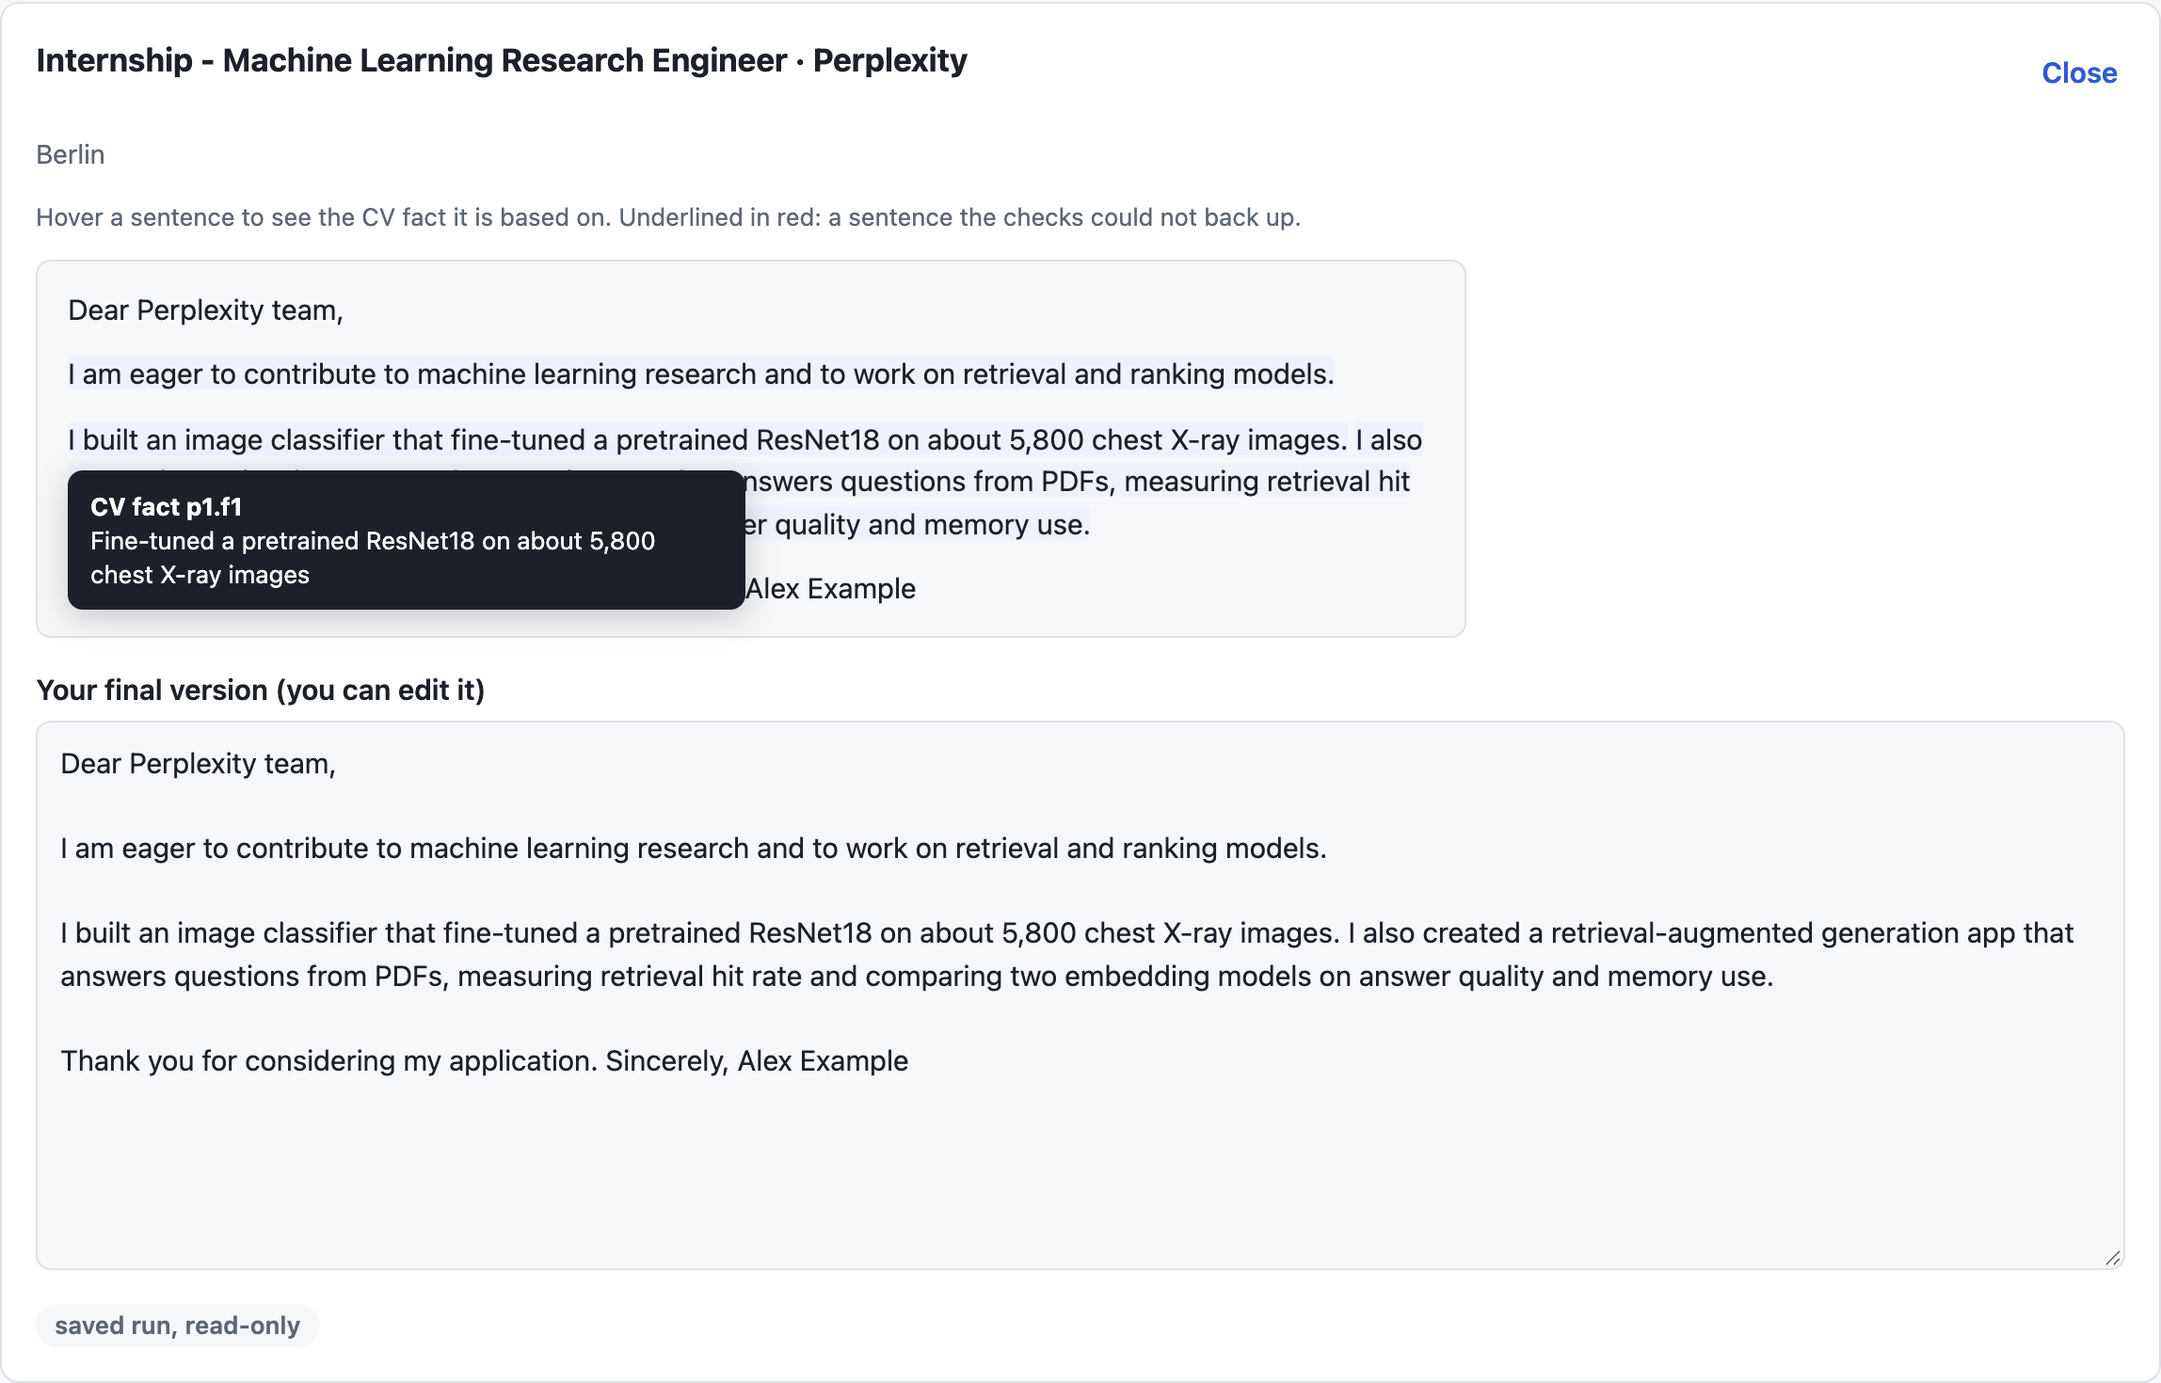
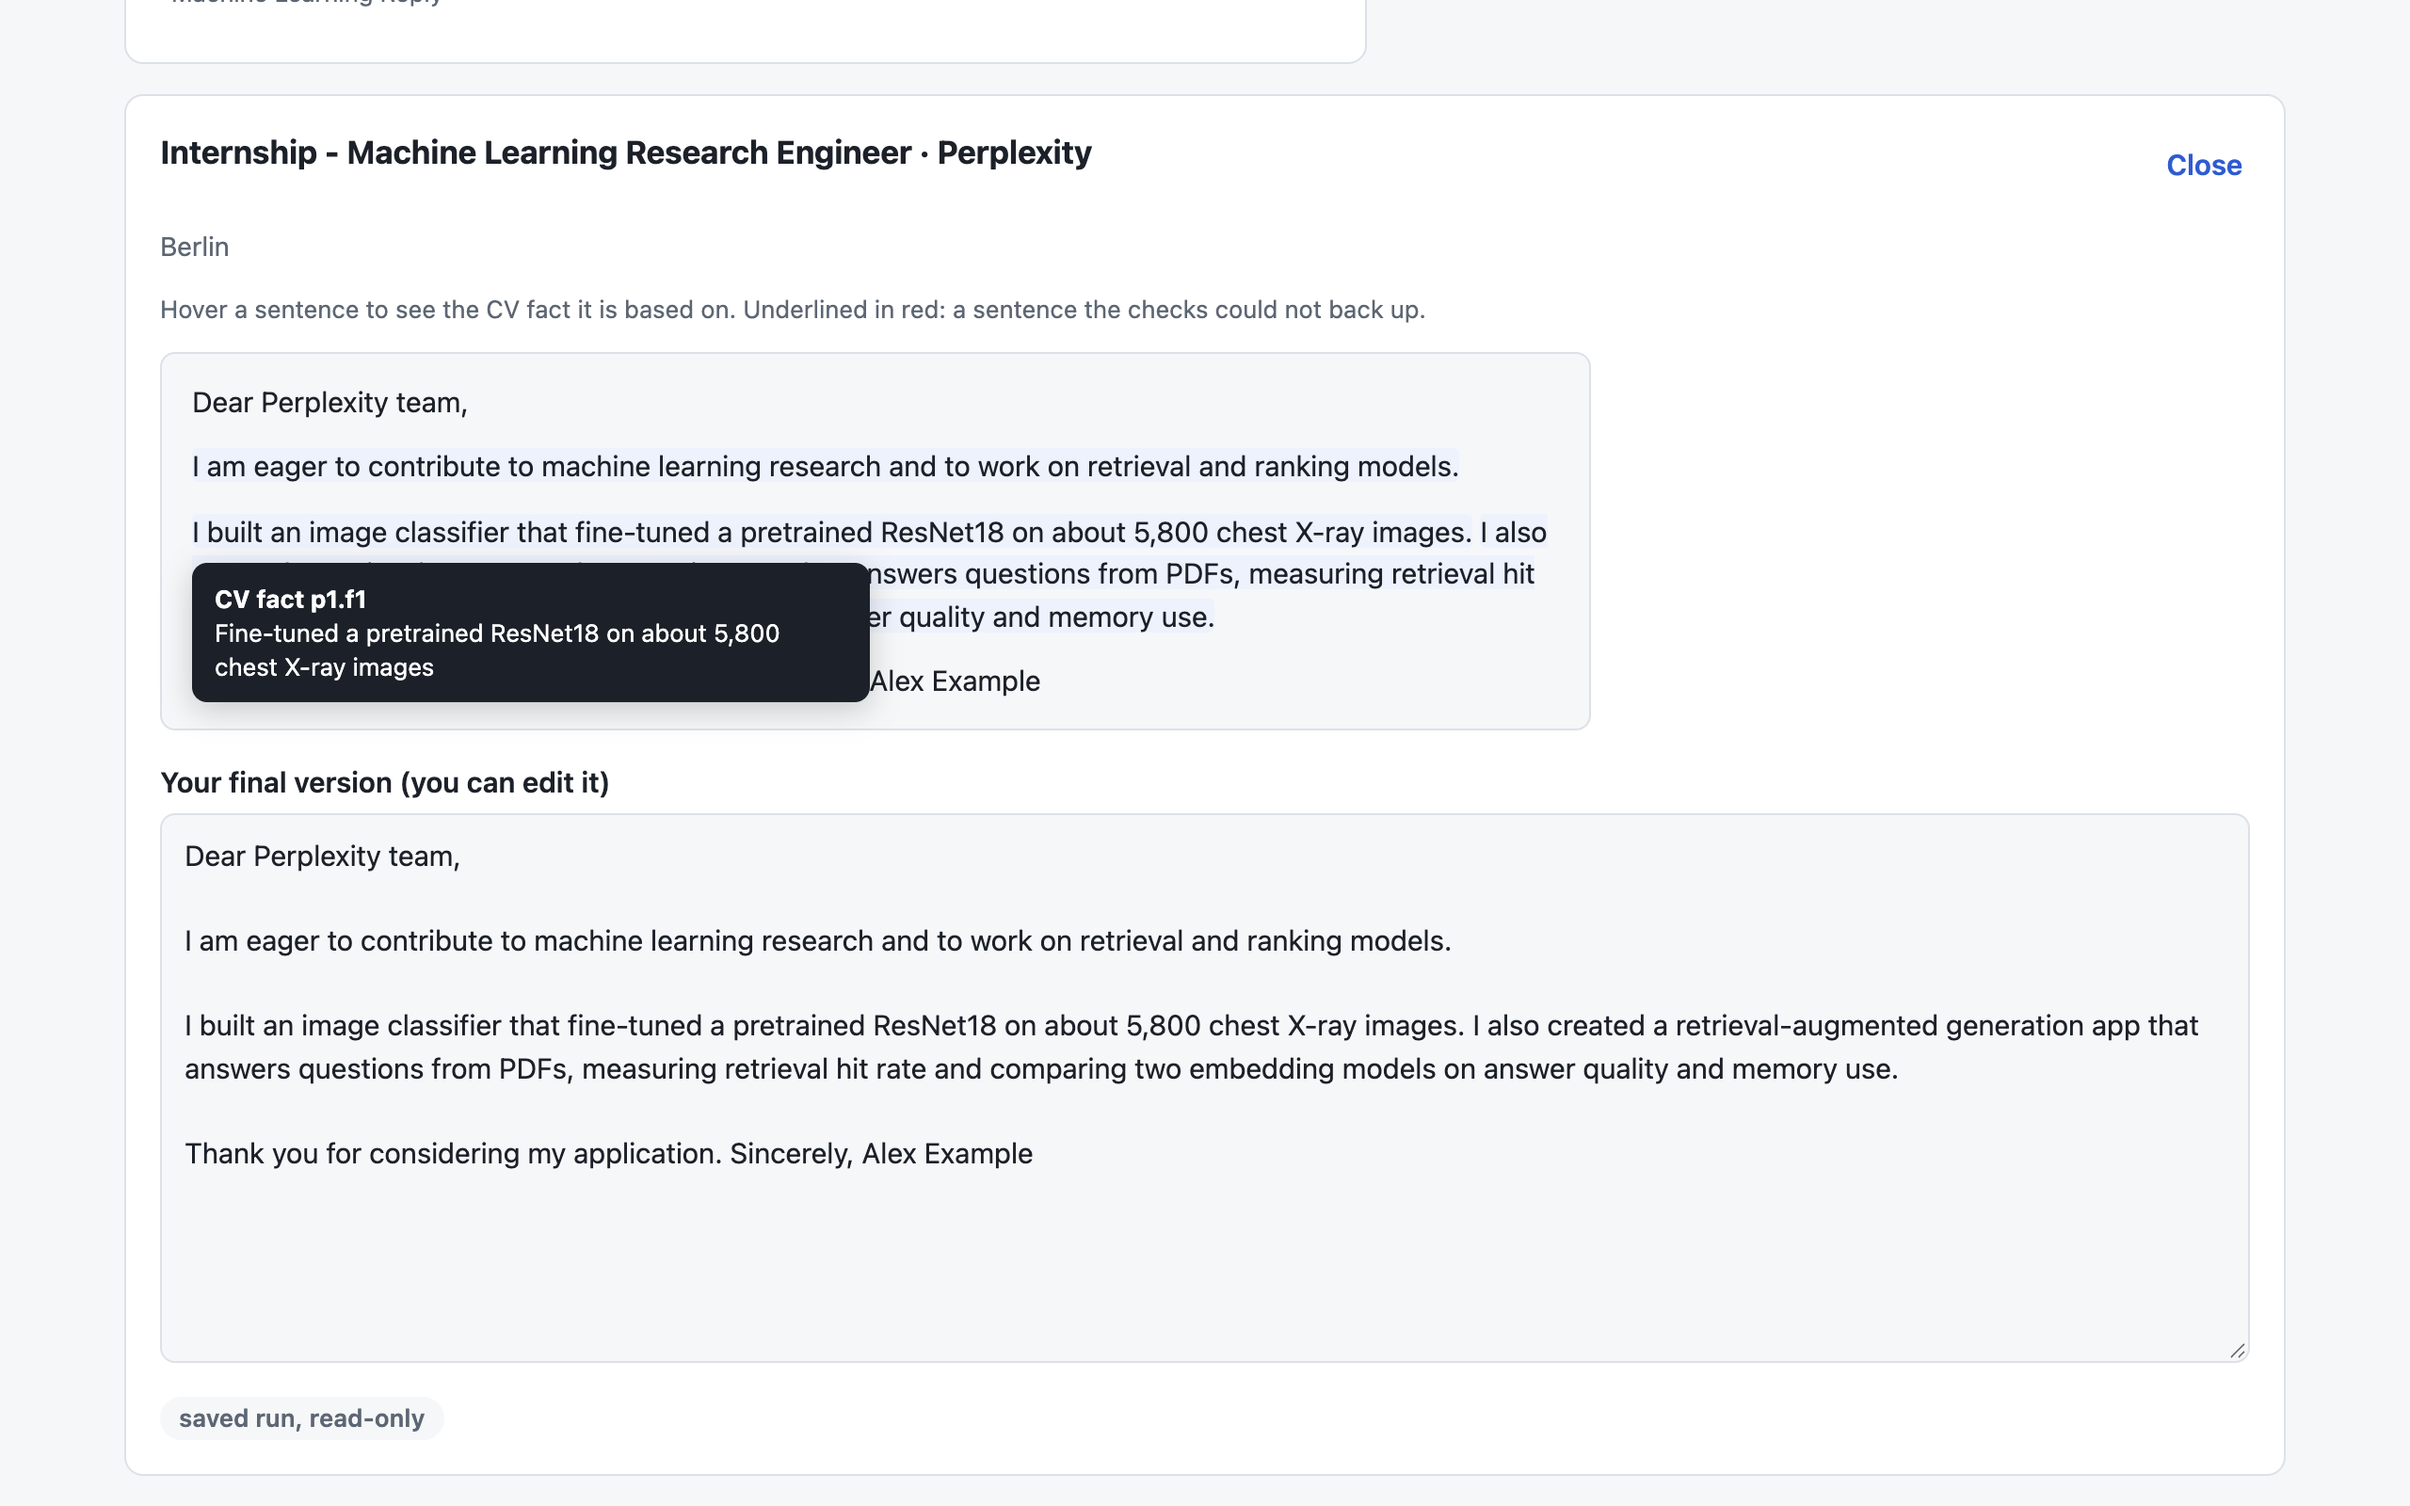
docs: same-size screenshots; Render adds three X-Forwarded-For entries

diff --git a/src/job_agent/api/app.py b/src/job_agent/api/app.py
@@ -303,7 +303,7 @@ def create_app(
     temporary database.
 
     `trusted_proxies`: how many proxies in front of the app add themselves to
-    X-Forwarded-For (1 on Render; see client_ip). 0 means no proxy: the IP of
+    X-Forwarded-For (3 on Render; see client_ip). 0 means no proxy: the IP of
     the connection is used.
     """
     db_path = db_path or default_db_path()
